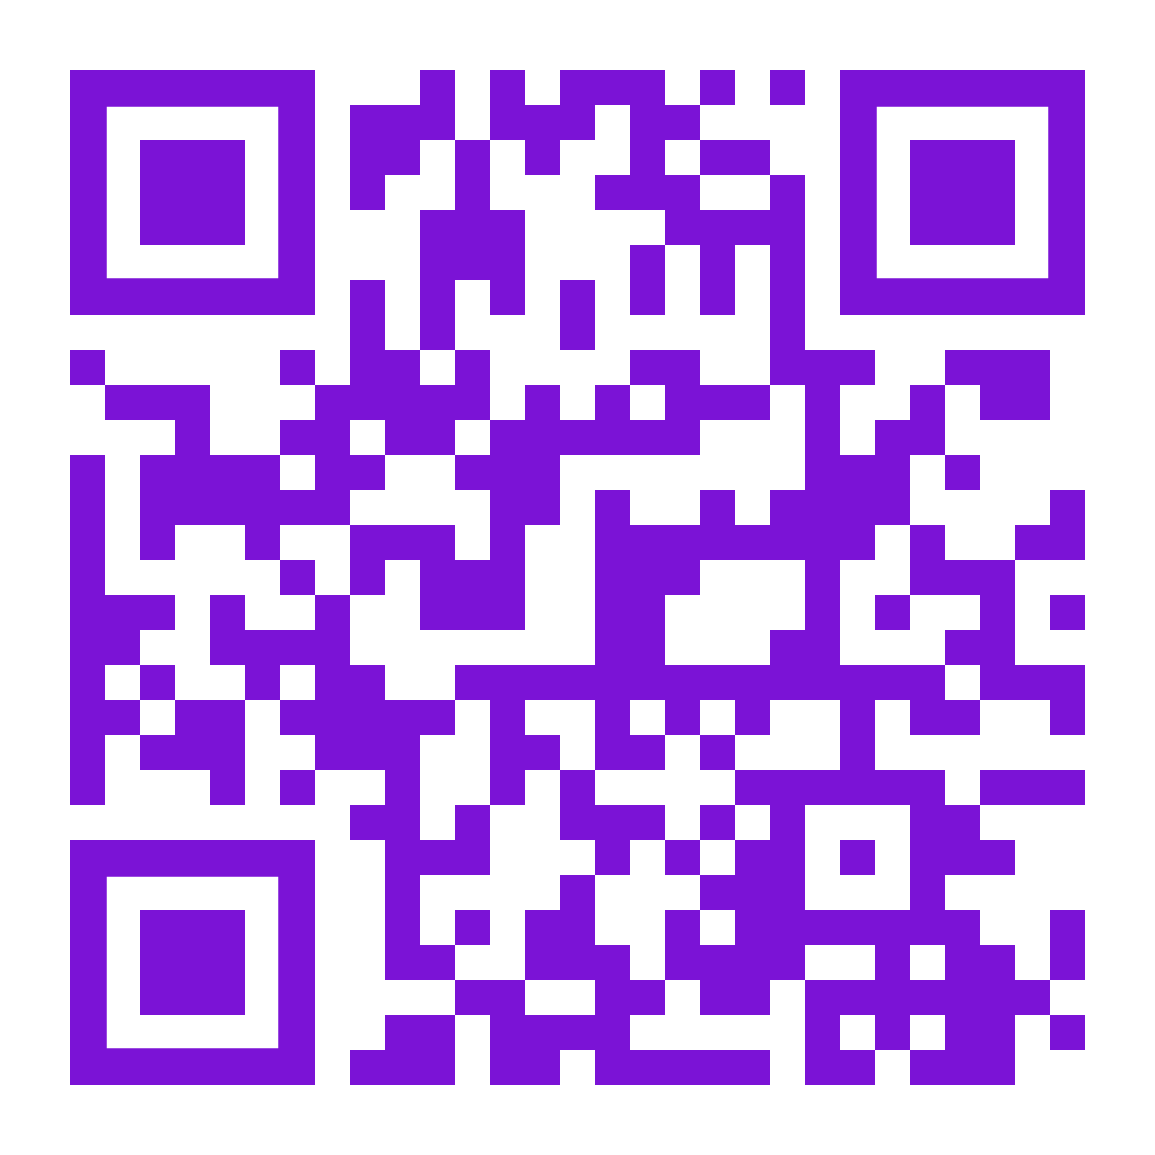
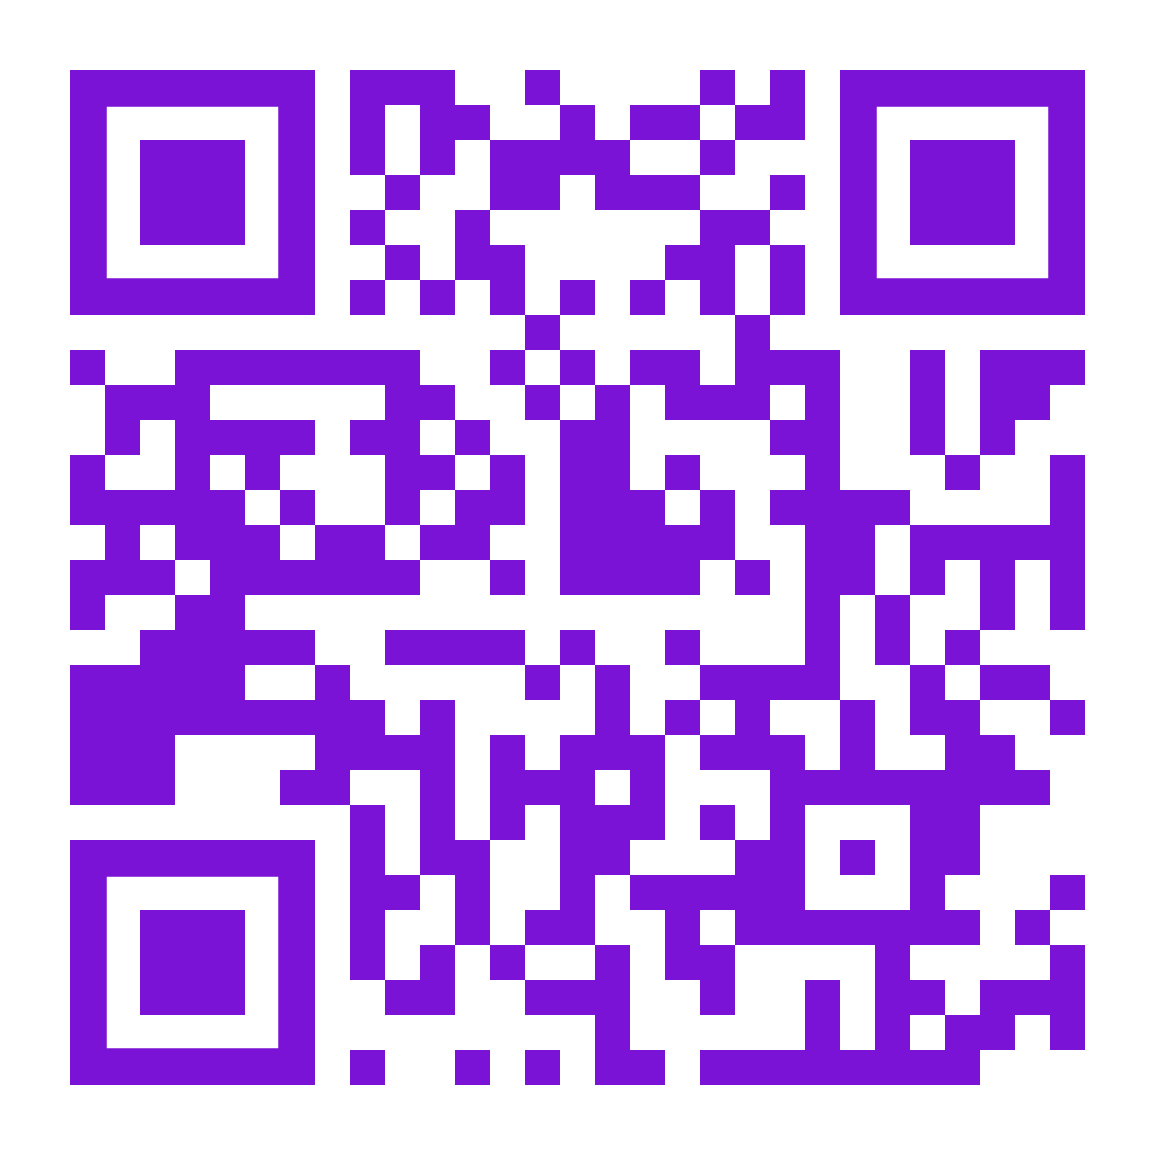
merckaert et QR SQY

diff --git a/_posts/2025-01-01-merckaert.md b/_posts/2025-01-01-merckaert.md
@@ -1,0 +1,22 @@
+---
+layout: post
+title: Lorrain Merckaert
+categories: [politique]
+excerpt: Maire de Montigny-le-Bretonneux
+---
+### Réhabilitation du parc Chedeville
+[Coût initial: 229k€.](https://www.macellum.fr/marche/26f9b6d85e75f77b779ef11e0cb81e26e739bd6c-rehabilitation-parc-chedeville-montigny-le-bretonneux)
+[Coût final: 1.3M€.](https://lagazette-sqy.fr/2024/01/12/votreville/montigny-le-bretonneux/un-projet-de-rehabilitation-du-parc-alain-chedeville/)
+
+### Hypercentre: Centrality
+[On nous vend "Plus de nature, plus de vie, plus d'attractivité."](https://www.saint-quentin-en-yvelines.fr/anneau-rouge-hypercentre/)  
+[Ça sera finalement "principalement des immeubles de bureaux."](https://lagazette-sqy.fr/2024/11/19/votreville/montigny-le-bretonneux/la-destruction-de-lanneau-rouge-etape-cle-du-renouveau-de-lhypercentre/)  
+[Projet Centrality: des bureaux.](https://www.codic.eu/projets/centrality/)
+
+### Stade PSG
+["Pour le maire yvelinois, accueillir le stade du PSG serait un signe d’attractivité « extrêmement fort pour garder des entreprises » à Saint-Quentin-en-Yvelines."](https://actu.fr/ile-de-france/montigny-le-bretonneux_78423/nouveau-stade-du-psg-montigny-le-bretonneux-attend-une-reponse-dici-la-fin-de-lannee-2024_61706048.html)  
+[Pourtant, ce stade est une catastrophe écologique.](https://agir.greenvoice.fr/petitions/non-a-la-construction-d-un-stade-sur-l-ile-de-loisirs-de-sqy)  
+
+### Charles Rodwell
+Lorrain Merckaert soutient le député Charles Rodwell, soutien réciproque ([1](https://www.linkedin.com/posts/charles-rodwell_legislatives2024-versailles-guyancourt-activity-7214573367700418560-YAEP/), [2](https://charlesrodwell.fr/un-grand-merci-a-tous-detre-venus-si-nombreux-a-notre-rentree-politique/)).  
+[Charles Rodwell, député macroniste de droite-extrême.]({{ site.baseurl }}{% link _posts/2025-01-01-rodwell.md %})

diff --git a/_posts/2025-01-01-rodwell.md b/_posts/2025-01-01-rodwell.md
@@ -14,6 +14,9 @@ excerpt: crypto-fasciste
 [Le Point: Il veut faire de l’identité française le cœur du projet politique de son parti.](https://www.lepoint.fr/politique/charles-rodwell-brisons-la-tenaille-identitaire-que-forment-l-islamisme-et-le-wokisme-01-02-2025-2581270_20.php)  
 [Le Parisien: Rétention d’étrangers dangereux : le député Renaissance Charles Rodwell remet sur la table l’allongement à 210 jours (retoquée par le Conseil Constitutionnel, soutenu par Retailleau)](https://www.leparisien.fr/politique/retention-detrangers-dangereux-le-depute-renaissance-charles-rodwell-remet-sur-la-table-lallongement-a-210-jours-03-10-2025-5IYXYHLPR5FZVKC6A6JZRHUZGQ.php)
 
+Lorrain Merckaert soutient le député Charles Rodwell, soutien réciproque ([1](https://www.linkedin.com/posts/charles-rodwell_legislatives2024-versailles-guyancourt-activity-7214573367700418560-YAEP/), [2](https://charlesrodwell.fr/un-grand-merci-a-tous-detre-venus-si-nombreux-a-notre-rentree-politique/)).  
+[Lorrain Merckaert, maire de Montigny-le-Bretonneux.]({{ site.baseurl }}{% link _posts/2025-01-01-merckaert.md %})
+
 ## S'informer
 
 ### Extrême droite

diff --git a/_posts/2025-09-10-qr-codes-sqy.md b/_posts/2025-09-10-qr-codes-sqy.md
@@ -1,0 +1,14 @@
+---
+layout: post
+title:  QR Codes SQY
+categories: [politique, SQY]
+excerpt: QR Codes SQY pour accéder aux différents posts
+---
+
+## Lorrain Merckaert
+
+[![]({{ site.baseurl }}/images/qr/medias.png)]({{ site.baseurl }}{% link _posts/2025-01-01-merckaert.md %})
+
+## Charles Rodwell
+
+[![]({{ site.baseurl }}/images/qr/infographies.png)]({{ site.baseurl }}{% link _posts/2025-01-01-rodwell.md %})

diff --git a/_includes/liens.md b/_includes/liens.md
@@ -3,4 +3,4 @@
 [Médias]({{ site.baseurl }}{% link _posts/2025-09-10-medias.md %})  
 [Infographies]({{ site.baseurl }}{% link _posts/2025-09-10-infographies.md %})  
 [Effondrement écologique]({{ site.baseurl }}{% link _posts/2025-09-10-effondrement-ecologique.md %})  
-[LFI78-SQY]({{ site.baseurl }}{% link _posts/2025-09-10-sqy.md %})
+[LFI78-SQY]({{ site.baseurl }}{% link _posts/2025-09-10-lfi-sqy.md %})

diff --git a/_posts/2025-09-10-infographies.md b/_posts/2025-09-10-infographies.md
@@ -32,6 +32,7 @@ excerpt: Ensemble d'infographies
 ![]({{ site.baseurl }}/images/infographies/economie/evo_500_fortunes.jpg)
 ![]({{ site.baseurl }}/images/infographies/economie/patrimoine_500_fortunes.jpg)
 ![]({{ site.baseurl }}/images/infographies/economie/pauvres.jpg)
+![]({{ site.baseurl }}/images/infographies/economie/impot_entreprise.jpg)
 
 ## Ecologie
 

diff --git a/_posts/2025-09-10-qr-codes.md b/_posts/2025-09-10-qr-codes.md
@@ -19,4 +19,4 @@ excerpt: QR Codes pour accéder aux différents posts
 
 ## LFI78-SQY
 
-[![]({{ site.baseurl }}/images/qr/lfi78-sqy.png)]({{ site.baseurl }}{% link _posts/2025-09-10-sqy.md %})
+[![]({{ site.baseurl }}/images/qr/lfi78-sqy.png)]({{ site.baseurl }}{% link _posts/2025-09-10-lfi-sqy.md %})
